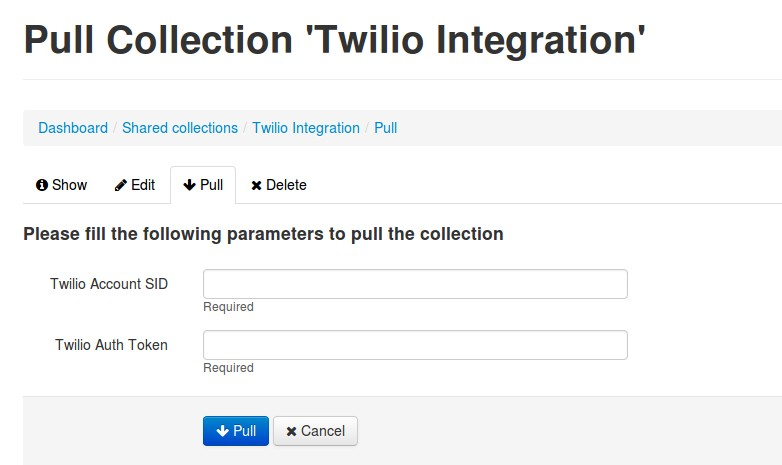
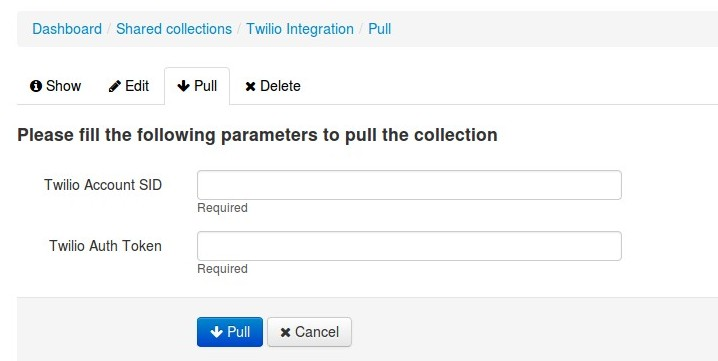
Update docs

diff --git a/integrations/twilio_integration.md b/integrations/twilio_integration.md
@@ -21,6 +21,8 @@ You need a Twilio account, you can create a free test account at www.twilio.com/
 
 Then you need your Test Account Sid and Test Auth Token.
 
+###Pull Collection
+
 ![Pull Twilio Shared Collection](/img/integrations/twilio/twilio_config.jpg)
 
 ***
@@ -83,9 +85,23 @@ Request for Twilio Integration:
  
 ## Flow samples
 
-### SMS Order
+### Send SMS for new Order  
 
 Sends a SMS for every new order that arrive to Cenit.
+
+#### Translator
+
+![Export Order to Twilio SMS Request ](/img/integrations/twilio/export_order_to_sms.png)
+
+#### Flow
+
+Send SMS with Twilio Webhook 
+
+![Convert Order to SMS for every new order](/img/integrations/twilio/send_sms.png)
+
+### Convert Order to SMS
+
+Convert order to SMS for every new order that arrive to Cenit.
 
 #### Translator
 
@@ -95,9 +111,9 @@ Sends a SMS for every new order that arrive to Cenit.
 
 ![Convert Order to SMS for every new order](/img/integrations/twilio/flow_order_sms.jpg)
 
-### SMS Customer
+### Convert Customer to SMS
 
-Sends a SMS for every new Customer that create on Cenit.
+Convert customer to SMS for every new Customer that create on Cenit.
 
 #### Translator
 
